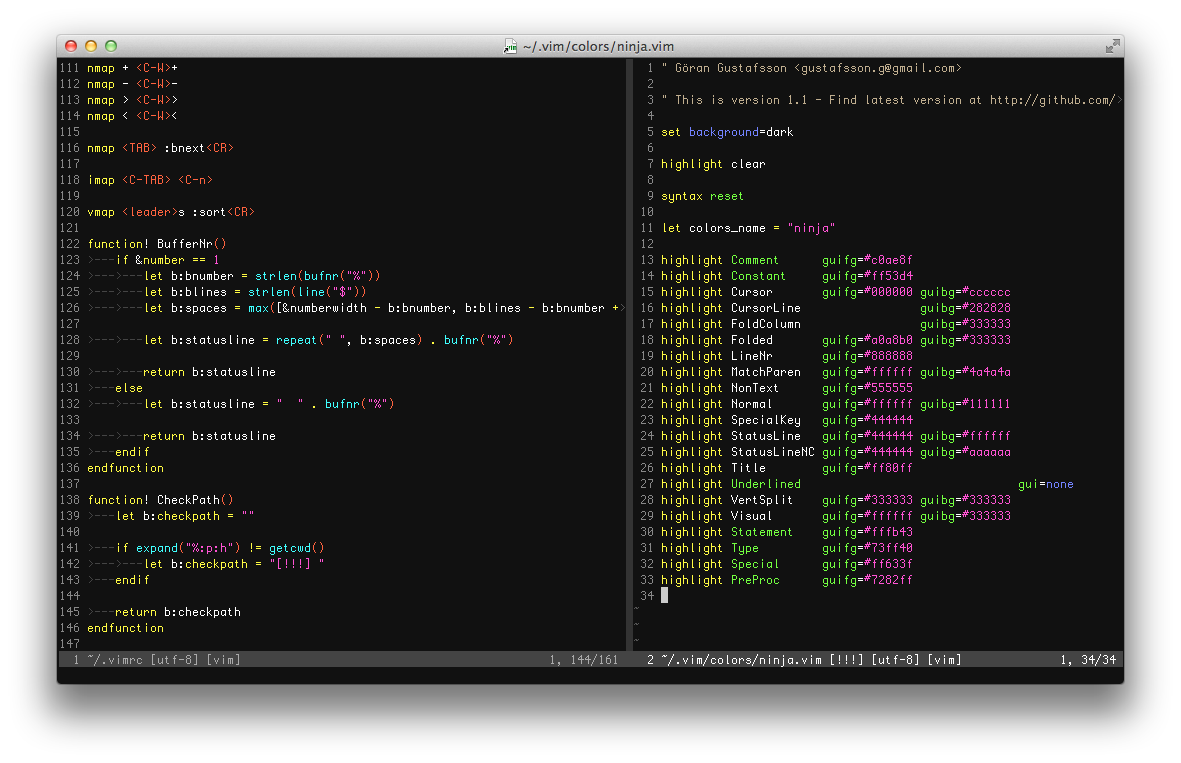
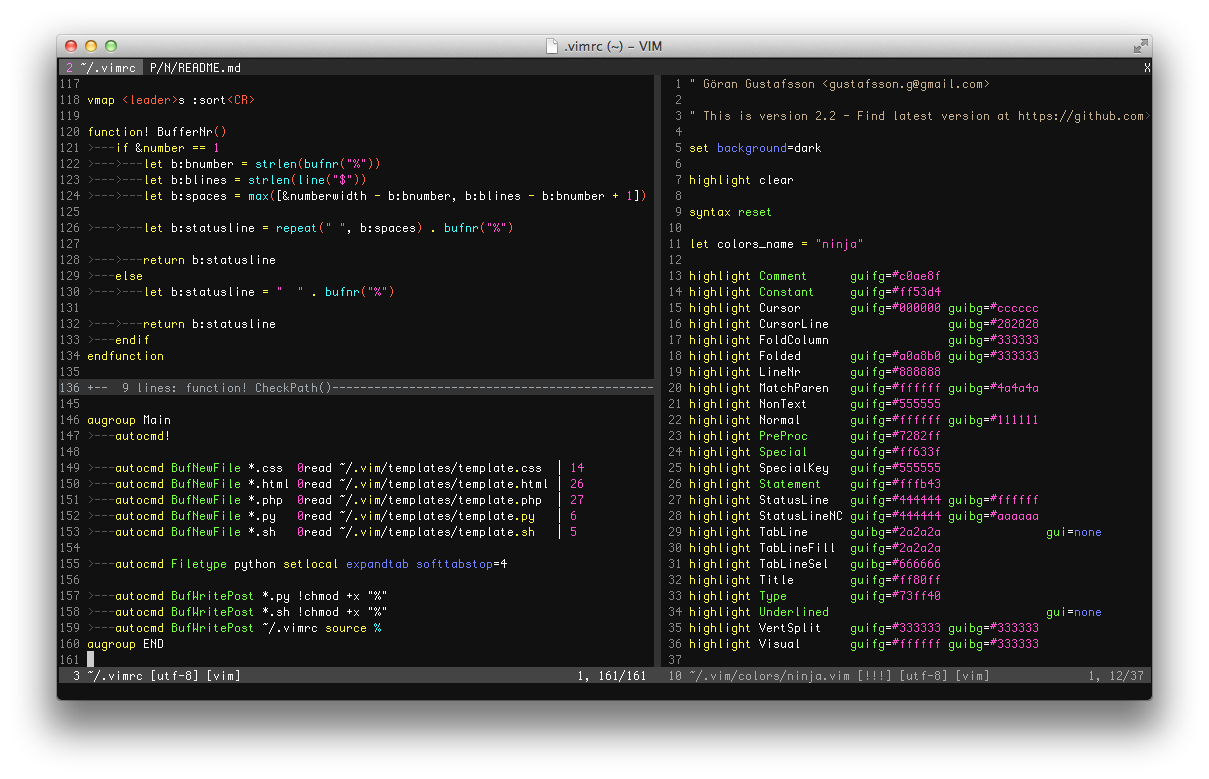
Tweaking once again
Darker SpecialKey.
Better preview image.
Small changes to README.

diff --git a/README.md b/README.md
@@ -5,18 +5,20 @@ Description
 -----------
 My *AWESOME* color scheme for Vim text editor. *1980s style ninja powah!*
 
-The default colors are pretty good so i only changed the things that is not good enough for me. Kept it simple.
+The default colors are pretty good so i only changed the things that is not good enough for me. Kept it pretty simple.
 
 
 Installation
 ------------
-Download the *ninja.vim* file and put it in *~/vim/colors* and run *:colorscheme ninja* within Vim (add line to *~/.vimrc*).
+Download the **ninja.vim** file and put it in **~/vim/colors** and run **:colorscheme ninja** within Vim (add line to **~/.vimrc** or **~/.gvimrc**).
 
 
 Suggestions
 -----------
-If you think i should change something just email me at *gustafsson.g at gmail.com* with specific highlight group(s) and color(s). Preferably attach a screenshot of the modification so i can easily see it.
+If you think i should change something just email me at **gustafsson.g at gmail.com** with specific highlight group(s) and color(s). Preferably attach a screenshot of the modification so i can easily see it.
 
 
-**NOTE:** I've only tried this color scheme on the latest version of MacVim so if something looks odd email me or fix it yourself.
+Notes
+-----
+I've only tried this color scheme on the latest version of MacVim so if something looks odd email me or fix it yourself.
 
